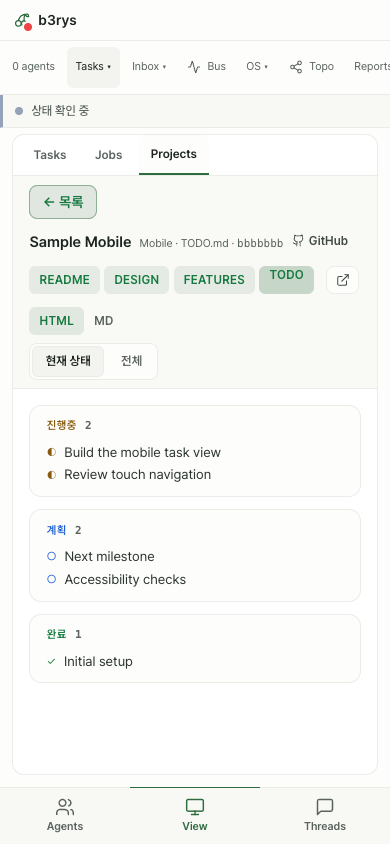
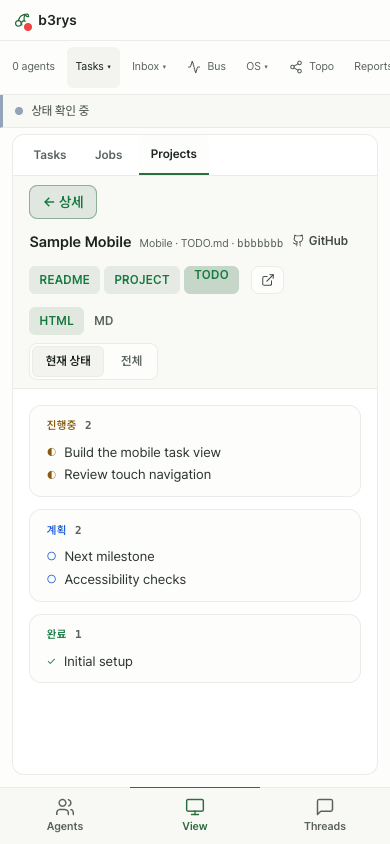
fix(projects): preserve primary track identity and allow sparse track documents

diff --git a/src/server/lib/githubDocs.test.ts b/src/server/lib/githubDocs.test.ts
@@ -86,3 +86,59 @@ describe("GitHub project snapshots", () => {
     for (const input of [[project, project], [{ ...project, repo: "https://evil.test" }], [{ ...project, docs: { ...project.docs, todo: "../private.md" } }], [{ ...project, excludeSections: "킵" }], [{ ...project, excludeSections: [""] }]]) expect(() => validateProjects(input)).toThrow("invalid_project_registry");
   });
 });
+
+describe("registry and shared document cache regression", () => {
+  test("legacy registration requires a nonempty kanbanPrefix; tracks may omit it", () => {
+    const { kanbanPrefix: _, ...withoutPrefix } = project;
+    for (const candidate of [withoutPrefix, { ...project, kanbanPrefix: "" }, { ...project, kanbanPrefix: null }, { ...project, kanbanPrefix: 42 }]) {
+      expect(() => validateProjects([candidate])).toThrow("invalid_project_registry");
+    }
+    expect(validateProjects([project])[0]!.kanbanPrefix).toBe("[sample]");
+    expect(validateProjects([{ id: "sample", name: "Sample", tracks: [{ name: "Mobile", repo: "your-org/sample-mobile", docs: project.docs }] }])[0]!.tracks).toHaveLength(1);
+  });
+  test("same repo/SHA/path cache rebuilds links for each project and track, including restart/stale", async () => {
+    const cacheDir = mkdtempSync(join(tmpdir(), "projects-link-cache-")); dirs.push(cacheDir);
+    const requests: string[] = [];
+    let offline = false;
+    const fetcher = (async input => {
+      const url = String(input); requests.push(url);
+      if (offline) return new Response("", { status: 503 });
+      if (url.includes("/branches/")) return Response.json({ commit: { sha: "a".repeat(40) } });
+      return new Response("# Shared source\n\n[Design](DESIGN.md)");
+    }) as typeof fetch;
+    const registrations = [
+      { ...project, id: "first", repo: "your-org/shared" },
+      { ...project, id: "second", repo: "your-org/shared" },
+      { ...project, id: "second", repo: "your-org/shared", trackId: "desktop" },
+      { ...project, id: "second", repo: "your-org/shared", trackId: "mobile" },
+    ];
+    const source = new GitHubDocs({ cacheDir, fetch: fetcher, useToken: false });
+    for (const p of registrations) {
+      const doc = (await source.get(p)).docs.readme!;
+      expect(doc.md).toBe("# Shared source\n\n[Design](DESIGN.md)");
+      expect(doc.html).toContain(`id=${p.id}&amp;doc=design${p.trackId ? `&amp;track=${p.trackId}` : ""}`);
+      if (!p.trackId) expect(doc.html).not.toContain("track=");
+    }
+    // Four registrations share four immutable source files; only branch checks repeat.
+    expect(requests.filter(u => !u.includes("/branches/")).length).toBe(4);
+    offline = true;
+    const restarted = new GitHubDocs({ cacheDir, fetch: fetcher, useToken: false });
+    for (const p of registrations) {
+      const snapshot = await restarted.get(p);
+      expect(snapshot.stale).toBe(true);
+      expect(snapshot.docs.readme!.html).toContain(`id=${p.id}&amp;doc=design${p.trackId ? `&amp;track=${p.trackId}` : ""}`);
+    }
+  });
+  test("identical document paths in different repos never reuse another repository's source", async () => {
+    const cacheDir = mkdtempSync(join(tmpdir(), "projects-repo-cache-")); dirs.push(cacheDir);
+    const source = new GitHubDocs({ cacheDir, useToken: false, fetch: (async input => {
+      const url = String(input);
+      if (url.includes("/branches/")) return Response.json({ commit: { sha: "b".repeat(40) } });
+      return new Response(url.includes("your-org/mobile/") ? "# Mobile content" : "# Desktop content");
+    }) as typeof fetch });
+    const desktop = await source.get({ ...project, repo: "your-org/desktop", trackId: "desktop" });
+    const mobile = await source.get({ ...project, repo: "your-org/mobile", trackId: "mobile" });
+    expect(desktop.docs.readme!.md).toBe("# Desktop content");
+    expect(mobile.docs.readme!.md).toBe("# Mobile content");
+  });
+});

diff --git a/src/server/routes/projects-tracks.test.ts b/src/server/routes/projects-tracks.test.ts
@@ -13,7 +13,7 @@ const registry = [{ id: "sample", name: "Sample", tokenEnv: "GITHUB_TOKEN_SAMPLE
 ] }];
 const cleanup: (() => void)[] = [];
 afterEach(() => { for (const fn of cleanup.splice(0)) fn(); });
-function setup(failedRepo?: string, status = 401) {
+function setup(failedRepo?: string, status = 401, registrations: unknown = registry) {
   const dir = mkdtempSync(join(tmpdir(), "projects-tracks-"));
   const db = new Database(":memory:");
   db.exec("CREATE TABLE task (id TEXT, title TEXT, lane TEXT, updated_at TEXT)");
@@ -27,7 +27,7 @@ function setup(failedRepo?: string, status = 401) {
     if (u.includes("/branches/")) return Response.json({ commit: { sha: (mobile ? "b" : "a").repeat(40) } });
     return new Response(`# ${mobile ? "Mobile" : "Desktop"}\n\nSample introduction.\n\n[Design](DESIGN.md)\n- [~] ${mobile ? "Mobile task" : "Desktop task"}\n- [ ] Next\n- [x] Shipped`);
   }) as typeof fetch });
-  return { app: createProjectRoutes({ db, projects: validateProjects(registry), source }), calls };
+  return { app: createProjectRoutes({ db, projects: validateProjects(registrations), source }), calls };
 }
 describe("Projects tracks", () => {
   test("tracks-only registry resolves defaults and keeps explicit tokens separate", () => {
@@ -104,4 +104,39 @@ test("track tokens inherit or override without entering response/cache data", as
   }
   expect(used.length).toBe(10);
   expect(used.every(Boolean)).toBe(true);
+});
+
+test("first-track failure preserves top-level repository identity without borrowing another track's snapshot", async () => {
+  const { app } = setup("your-org/sample/", 401);
+  for (const path of ["/projects", "/projects/sample"]) {
+    const body = await (await app.request(path)).json();
+    const p = body.projects?.[0] ?? body;
+    expect(p.repo).toBe("your-org/sample");
+    expect(p.branch).toBe("main");
+    expect(p.sha).toBe("");
+    expect(p.intro).toBe("");
+    expect(p.docs.every((d: any) => !d.exists)).toBe(true);
+    expect(p.tracks[0].error).toBe("github_auth_or_not_found");
+    expect(p.tracks[1].repo).toBe("your-org/sample-mobile");
+    expect(p.tracks[1].sha).toBe("b".repeat(40));
+    expect(p.todo.doing).toBe(1);
+  }
+});
+
+
+test("tracks register only present documents; legacy required docs remain enforced", async () => {
+  const sparseDocs = { readme: "README.md", project: "PROJECT.md", todo: "TODO.md" };
+  const registrations = [{ ...registry[0], tracks: [registry[0]!.tracks[0], { ...registry[0]!.tracks[1], docs: sparseDocs }] }];
+  const { app, calls } = setup(undefined, 401, registrations);
+  const p = (await (await app.request("/projects/sample")).json());
+  expect(p.tracks[1].docs.map((d: any) => d.key)).toEqual(["readme", "project", "todo"]);
+  expect(p.tracks[1].todo.doingTitles).toEqual(["Mobile task"]);
+  expect(calls.filter(u => u.includes("sample-mobile") && /\/(DESIGN|FEATURES)\.md$/.test(u))).toEqual([]);
+  expect((await app.request("/projects/sample/doc/design?track=mobile")).status).toBe(404);
+  const page = await (await app.request("/projects/sample/doc/readme/page?track=mobile")).text();
+  expect(page).toContain("/doc/project/page?track=mobile");
+  expect(page).not.toContain("/doc/design/page");
+  expect(page).not.toContain("/doc/features/page");
+  expect(() => validateProjects([{ id: "single", name: "Single", repo: "your-org/single", branch: "main", docs: sparseDocs, kanbanPrefix: "[single]" }])).toThrow("invalid_project_registry");
+  expect(() => validateProjects([{ ...registry[0], tracks: [{ ...registry[0]!.tracks[0], docs: {} }] }])).toThrow("invalid_project_registry");
 });

diff --git a/src/server/lib/githubDocs.ts b/src/server/lib/githubDocs.ts
@@ -11,7 +11,6 @@ export const OPTIONAL_DOC_KEYS: readonly DocKey[] = ["project"];
 export const isOptionalDocKey = (key: DocKey) => OPTIONAL_DOC_KEYS.includes(key);
 /** 이 프로젝트에 등록된 문서 키(순서 유지). */
 export const registeredDocKeys = (p: ProjectRegistration) => DOC_KEYS.filter(k => p.docs[k] !== undefined);
-type RequiredDocKey = Exclude<DocKey, "project">;
 export interface ProjectTrack {
   id?: string; name: string; repo: string; branch?: string;
   docs: ProjectRegistration["docs"]; tokenEnv?: string;
@@ -22,7 +21,7 @@ export interface ProjectRegistration {
   /** Resolved source identity, used in links and cache separation. */
   trackId?: string;
   id: string; name: string; repo: string; branch: string;
-  docs: Record<RequiredDocKey, string> & Partial<Record<"project", string>>; kanbanPrefix: string;
+  docs: Partial<Record<DocKey, string>>; kanbanPrefix: string;
   /** TODO.md headings containing any of these hide their `[ ]` items from plan (default: ["킵"]). */
   excludeSections?: string[];
   /** Name of the env var holding this project's read-only GitHub token (default: GITHUB_TOKEN). The value never lives in the registry. */
@@ -40,13 +39,14 @@ export class ProjectSourceError extends Error {
 export const sourceFailureReason = (status: number) =>
   status === 401 || status === 403 || status === 404 ? "github_auth_or_not_found" : "github_unavailable";
 const validId = (value: unknown) => typeof value === "string" && /^[a-z0-9][a-z0-9_-]*$/.test(value);
-function validSource(p: any): boolean {
+function validSource(p: any, requireLegacyDocs = true): boolean {
   return typeof p.repo === "string" && /^[\w.-]+\/[\w.-]+$/.test(p.repo) &&
     typeof p.branch === "string" && !!p.branch &&
     (p.kanbanPrefix === undefined || (typeof p.kanbanPrefix === "string" && !!p.kanbanPrefix)) && !!p.docs &&
+    DOC_KEYS.some(key => p.docs[key] !== undefined) &&
     (p.excludeSections === undefined || (Array.isArray(p.excludeSections) && p.excludeSections.every((x: unknown) => typeof x === "string" && !!x))) &&
     (p.tokenEnv === undefined || (typeof p.tokenEnv === "string" && /^[A-Z][A-Z0-9_]*$/.test(p.tokenEnv))) &&
-    DOC_KEYS.every(key => p.docs[key] === undefined && isOptionalDocKey(key) ||
+    DOC_KEYS.every(key => p.docs[key] === undefined && (!requireLegacyDocs || isOptionalDocKey(key)) ||
       typeof p.docs[key] === "string" && !!p.docs[key] && !p.docs[key].startsWith("/") &&
       !/[\\\u0000-\u001f?#]/.test(p.docs[key]) && !p.docs[key].split("/").some((x: string) => x === ".." || x === "."));
 }
@@ -71,7 +71,7 @@ export function validateProjects(input: unknown): ProjectRegistration[] {
       for (const [i, t] of p.tracks.entries()) {
         const id = t?.id ?? String(i);
         if (!t || !validId(id) || ids.has(id) || typeof t.name !== "string" || !t.name.trim() ||
-          !validSource({ ...t, branch: t.branch ?? p.branch ?? "main", tokenEnv: t.tokenEnv ?? p.tokenEnv, excludeSections: t.excludeSections ?? p.excludeSections })) throw new Error("invalid_project_registry");
+          !validSource({ ...t, branch: t.branch ?? p.branch ?? "main", tokenEnv: t.tokenEnv ?? p.tokenEnv, excludeSections: t.excludeSections ?? p.excludeSections }, false)) throw new Error("invalid_project_registry");
         ids.add(id);
       }
       const first = p.tracks[0];

diff --git a/src/web/components/projects.test.ts b/src/web/components/projects.test.ts
@@ -688,11 +688,11 @@ describe("Projects multi-track overview", () => {
     { ...fixture.summary, id: "desktop", name: "Desktop", todo: { doing: 1, plan: 2, done: 3, doingTitles: ["Desktop work"] }, kanban: [] },
     { ...fixture.summary, id: "mobile", name: "Mobile", repo: "your-org/sample-mobile", todo: { doing: 1, plan: 1, done: 0, doingTitles: ["Mobile work"] }, kanban: [] },
   ];
-  async function withTracks(broken: boolean, action: (root: HTMLElement) => Promise<void>): Promise<void> {
+  async function withTracks(broken: boolean, action: (root: HTMLElement) => Promise<void>, sparse = false): Promise<void> {
     const saved = globalThis.fetch;
     globalThis.fetch = (async input => {
       const url = String(input);
-      if (!url.includes("/doc/")) return Response.json({ projects: [{ ...fixture.summary, tracks: broken ? [tracks[0], { id: "mobile", name: "Mobile", repo: "your-org/sample-mobile", error: "github_auth_or_not_found", key: "branch" }] : tracks }] });
+      if (!url.includes("/doc/")) return Response.json({ projects: [{ ...fixture.summary, tracks: broken ? [tracks[0], { id: "mobile", name: "Mobile", repo: "your-org/sample-mobile", error: "github_auth_or_not_found", key: "branch" }] : sparse ? [tracks[0], { ...tracks[1], docs: tracks[1]!.docs.filter(d => d.key === "readme" || d.key === "todo") }] : tracks }] });
       return saved(input);
     }) as typeof fetch;
     try { await action(await mount()); } finally { globalThis.fetch = saved; }
@@ -717,6 +717,14 @@ describe("Projects multi-track overview", () => {
       expect(root.querySelectorAll('[data-track="desktop"] button.projects-chip')).toHaveLength(4);
       expect(root.querySelectorAll('[data-track="mobile"] button.projects-chip')).toHaveLength(0);
     });
+  });
+  test("sparse track overview and document tabs omit unregistered documents", async () => {
+    await withTracks(false, async root => {
+      openSummary(root);
+      expect(root.querySelectorAll('[data-track="mobile"] button.projects-chip')).toHaveLength(2);
+      root.querySelector<HTMLButtonElement>('[data-track="mobile"] button[data-doc="readme"]')!.click(); await tick();
+      expect([...root.querySelectorAll(".projects-doc-chip")].map(d => d.textContent?.trim())).toEqual(["README", "TODO"]);
+    }, true);
   });
   test("mobile document, raw mode and new-window links retain track selection", async () => {
     await withTracks(false, async root => {

diff --git a/src/web/components/Projects.ts b/src/web/components/Projects.ts
@@ -57,8 +57,6 @@ interface Fixture {
 }
 
 const DOC_KEYS: ProjectDocKey[] = ["readme", "project", "design", "features", "todo"];
-/** 등록하지 않아도 되는 문서 — 서버 목록에 없으면 버튼을 그리지 않는다(비활성 버튼도 아님). */
-const OPTIONAL_DOC_KEYS: ProjectDocKey[] = ["project"];
 const DOC_LABEL: Record<ProjectDocKey, string> = { readme: "README", project: "PROJECT", design: "DESIGN", features: "FEATURES", todo: "TODO" };
 
 // 컴포넌트 로컬 상태 (대시보드는 store.mainView, 여기 list↔doc 은 자체 상태 + URL 쿼리)
@@ -526,7 +524,7 @@ async function renderDoc(): Promise<void> {
   const repo = project?.repo ?? "";
   const gh = repo ? `<a id="projects-open-github" href="${escape(blobUrl({ repo, sha: doc.sha }, doc.path))}" target="_blank" rel="noopener" class="inline-flex items-center gap-1 text-[12px] font-semibold text-slate-300 hover:text-accent-greenSoft whitespace-nowrap" title="${pick("GitHub 에서 이 파일 보기", "View this file on GitHub")}">${renderIcon("github", { size: 13 })}<span>GitHub</span></a>` : "";
   // 문서 전환 칩 — 목록 카드와 같은 모양, 현재 문서는 채운 모양. 없는 문서는 비활성.
-  const docChips = DOC_KEYS.filter((k) => !OPTIONAL_DOC_KEYS.includes(k) || project?.docs.some((x) => x.key === k)).map((k) => {
+  const docChips = DOC_KEYS.filter((k) => !project || project.docs.some((x) => x.key === k)).map((k) => {
     const d = project?.docs.find((x) => x.key === k);
     const base = `projects-doc-chip ${browseTabClass(k === key)}`;
     if (d && !d.exists) return `<span class="${base} text-slate-600 border-surface-3/60 bg-transparent cursor-not-allowed" aria-disabled="true">${DOC_LABEL[k]}</span>`;

diff --git a/src/server/routes/projects.ts b/src/server/routes/projects.ts
@@ -59,7 +59,16 @@ export function createProjectRoutes(deps: ProjectDeps) {
           key: r.reason instanceof ProjectSourceError ? r.reason.key : "project" });
     const ok = tracks.filter((t): t is Extract<typeof t, { todo: unknown }> => "todo" in t);
     if (!ok.length) throw (settled[0] as PromiseRejectedResult).reason;
-    return { ...ok[0]!, id: p.id, name: p.name, tracks,
+    // Top-level source identity belongs to the first registered track, even when it fails.
+    // A healthy secondary track must not supply a SHA/docs paired with the primary repo.
+    const first = sources[0]!;
+    const primaryResult = settled[0]!;
+    const primary = primaryResult.status === "fulfilled" ? primaryResult.value : {
+      repo: first.repo, branch: first.branch, sha: "", intro: "",
+      docs: registeredDocKeys(first).map(key => ({ key, path: first.docs[key], exists: false })),
+      excludeSections: excludeSections(first),
+    };
+    return { ...primary, id: p.id, name: p.name, tracks,
       todo: { doing: ok.reduce((n, t) => n + t.todo.doing, 0), plan: ok.reduce((n, t) => n + t.todo.plan, 0),
         done: ok.reduce((n, t) => n + t.todo.done, 0), doingTitles: ok.flatMap(t => t.todo.doingTitles) },
       kanban: [], fetchedAt: ok.map(t => t.fetchedAt).sort().at(-1)!, stale: ok.some(t => t.stale),

diff --git a/scripts/check-projects-ui.ts b/scripts/check-projects-ui.ts
@@ -14,7 +14,7 @@ db.exec("CREATE TABLE task (id TEXT, title TEXT, lane TEXT, updated_at TEXT)");
 const docs = { readme: "README.md", design: "DESIGN.md", features: "FEATURES.md", todo: "TODO.md" };
 const tracks = [
   { id: "desktop", name: "Desktop · Server", repo: "your-org/sample", docs },
-  { id: "mobile", name: "Mobile", repo: "your-org/sample-mobile", docs },
+  { id: "mobile", name: "Mobile", repo: "your-org/sample-mobile", docs: { readme: "README.md", project: "PROJECT.md", todo: "TODO.md" } },
 ];
 const projects = validateProjects([
   { id: "sample", name: "Sample workspace", tracks },

diff --git a/docs/acceptance/projects/verification.md b/docs/acceptance/projects/verification.md
@@ -10,7 +10,7 @@ bun run typecheck
 bun run build
 ```
 
-- 결과: 122개 통과, 0개 실패. 타입 검사·웹 빌드 통과(큰 청크 경고 있음).
+- 결과: 128개 통과, 0개 실패. 타입 검사·웹 빌드 통과(큰 청크 경고 있음).
 - 변이 검증: 모든 트랙 조회를 첫 저장소로 돌리도록 바꾸면 트랙 시험 9개 중 8개 실패. 원복 후 9개 통과.
 - 화면 검증: `bun run scripts/check-projects-ui.ts`는 DB를 메모리에, 캐시를 임시 폴더에 두고 GitHub 응답을 sample 데이터로 대체한다. Vite는 18912, API는 18913 포트를 사용한다. 서버는 라이브 registry·DB·토큰을 읽지 않는다.
 - 브라우저: 1440×900·390×844에서 목록 3행, 다중 트랙 상세 2절, 단일 저장소 상세 1절을 확인했다. 소개는 두 폭 모두 한 줄이며 상세 영역의 가로 넘침은 0이다. 390px Mobile TODO 문서가 해당 트랙 과제를 표시하며 문서 영역의 가로 넘침도 0이다. 일부 실패·다크 테마 캡처 포함.
@@ -23,3 +23,10 @@ bun run build
 | 일부 실패 | [PNG](screenshots/partial-desktop.png) | [PNG](screenshots/partial-mobile.png) |
 
 [다크 상세](screenshots/detail-dark.png) · [390px 문서](screenshots/document-mobile.png)
+
+## 등록·캐시·대표 트랙 회귀
+
+- 단일 형식 `kanbanPrefix` 누락·빈 문자열·잘못된 타입은 거부하고 트랙 생략은 허용하는 시험을 추가했다. 필수 검사를 제거하는 변이는 이 시험 1개가 실패한다.
+- 같은 repo/SHA/문서 경로를 공유하는 두 프로젝트·두 트랙을 순차 조회하고, 재시작 후 오프라인 캐시도 조회했다. 기존 구현에서 링크 오표시는 재현되지 않았다. 불변 문서 캐시는 원문을 공유하고 현재 등록정보로 HTML을 다시 렌더링하며, snapshot 캐시는 프로젝트 ID·트랙을 포함한다. 캐시 HTML을 바로 재사용하도록 바꾸는 변이는 새 회귀 시험 1개가 실패한다. 다른 저장소의 동일 README.md 경로도 서로 다른 원문을 유지한다.
+- 첫 트랙 401에서 최상위 repo가 두 번째 트랙으로 바뀌는 오류를 새 시험으로 재현했다(수정 전 1 fail). 수정 후 목록·상세에서 첫 트랙 repo를 유지하며 다른 트랙 SHA/문서를 빌려오지 않는다.
+- 트랙은 README·PROJECT·TODO만 등록해도 조회되고, 미등록 DESIGN·FEATURES는 GitHub 요청·독립 페이지·화면 탭에서 제외된다. 단일 형식의 필수 문서 조건은 유지한다.

diff --git a/docs/PROJECTS_TAB.md b/docs/PROJECTS_TAB.md
@@ -48,11 +48,11 @@ GitHub 저장소 (원본)                        team.db (원본)               
 
 `tracks`를 추가하면 배열의 각 항목을 독립 저장소로 읽는다. 전체 예시는 `projects.example.json`에 있다. 단일 저장소 등록은 변경 없이 동작한다. 트랙 등록은 상위 `repo`·`docs`·`kanbanPrefix` 없이도 가능하며 `tracks`가 있으면 트랙 배열이 조회 대상을 결정한다.
 
-- 트랙 필수 값: `name`, `repo`, `docs`. 문서 키·경로 검증은 단일 저장소와 같다.
+- 트랙 필수 값: `name`, `repo`, `docs`. 트랙의 `docs`에는 있는 문서만 등록한다(최소 한 개). 키와 경로 검증은 단일 저장소와 같다. 단일 저장소 형식은 기존대로 README·DESIGN·FEATURES·TODO와 비어 있지 않은 `kanbanPrefix`가 필수다.
 - `id`는 선택이며 생략하면 배열 인덱스 문자열을 쓴다. 문서 주소를 유지하려면 명시한 ID를 유지한다.
 - `branch`는 트랙 → 프로젝트 → `main`, `tokenEnv`는 트랙 → 프로젝트 → `GITHUB_TOKEN` 순으로 적용한다. `excludeSections`도 트랙 값이 우선한다.
 - 트랙의 `kanbanPrefix`를 지정한 경우에만 이 설치본의 칸반을 읽는다. 생략하면 해당 저장소 TODO.md의 `[~]` 줄만 지금 과제에 표시한다. 다른 트랙의 칸반은 섞지 않는다.
-- 목록·상세 응답의 `tracks`에는 성공한 트랙의 문서·건수·현재 과제 또는 실패한 트랙의 `{ id, name, repo, error, key }`가 순서대로 들어간다. 상위 건수는 성공한 트랙들의 합계다.
+- 목록·상세 응답의 `tracks`에는 성공한 트랙의 문서·건수·현재 과제 또는 실패한 트랙의 `{ id, name, repo, error, key }`가 순서대로 들어간다. 상위 건수는 성공한 트랙들의 합계다. 최상위 `repo`·`branch`는 첫 등록 트랙에 고정한다. 첫 트랙을 조회하지 못하면 최상위 `sha`·`intro`는 빈 문자열, `docs`는 첫 트랙의 등록 문서를 `exists: false`로 표시한다. 다른 트랙의 커밋·문서를 최상위에 섞지 않는다.
 - 문서 JSON·원문·독립 페이지는 `?track=<id>`로 트랙을 선택한다. 생략하면 첫 트랙을 선택하며 알 수 없는 ID는 404다. 문서 내부 링크·새창 칩에도 선택한 트랙을 유지한다.
 - 한 트랙이 실패해도 성공한 트랙은 표시한다. 전부 실패하고 캐시도 없으면 502다. 새로 조회 시에도 트랙별 캐시와 오류 처리를 적용한다.
 
